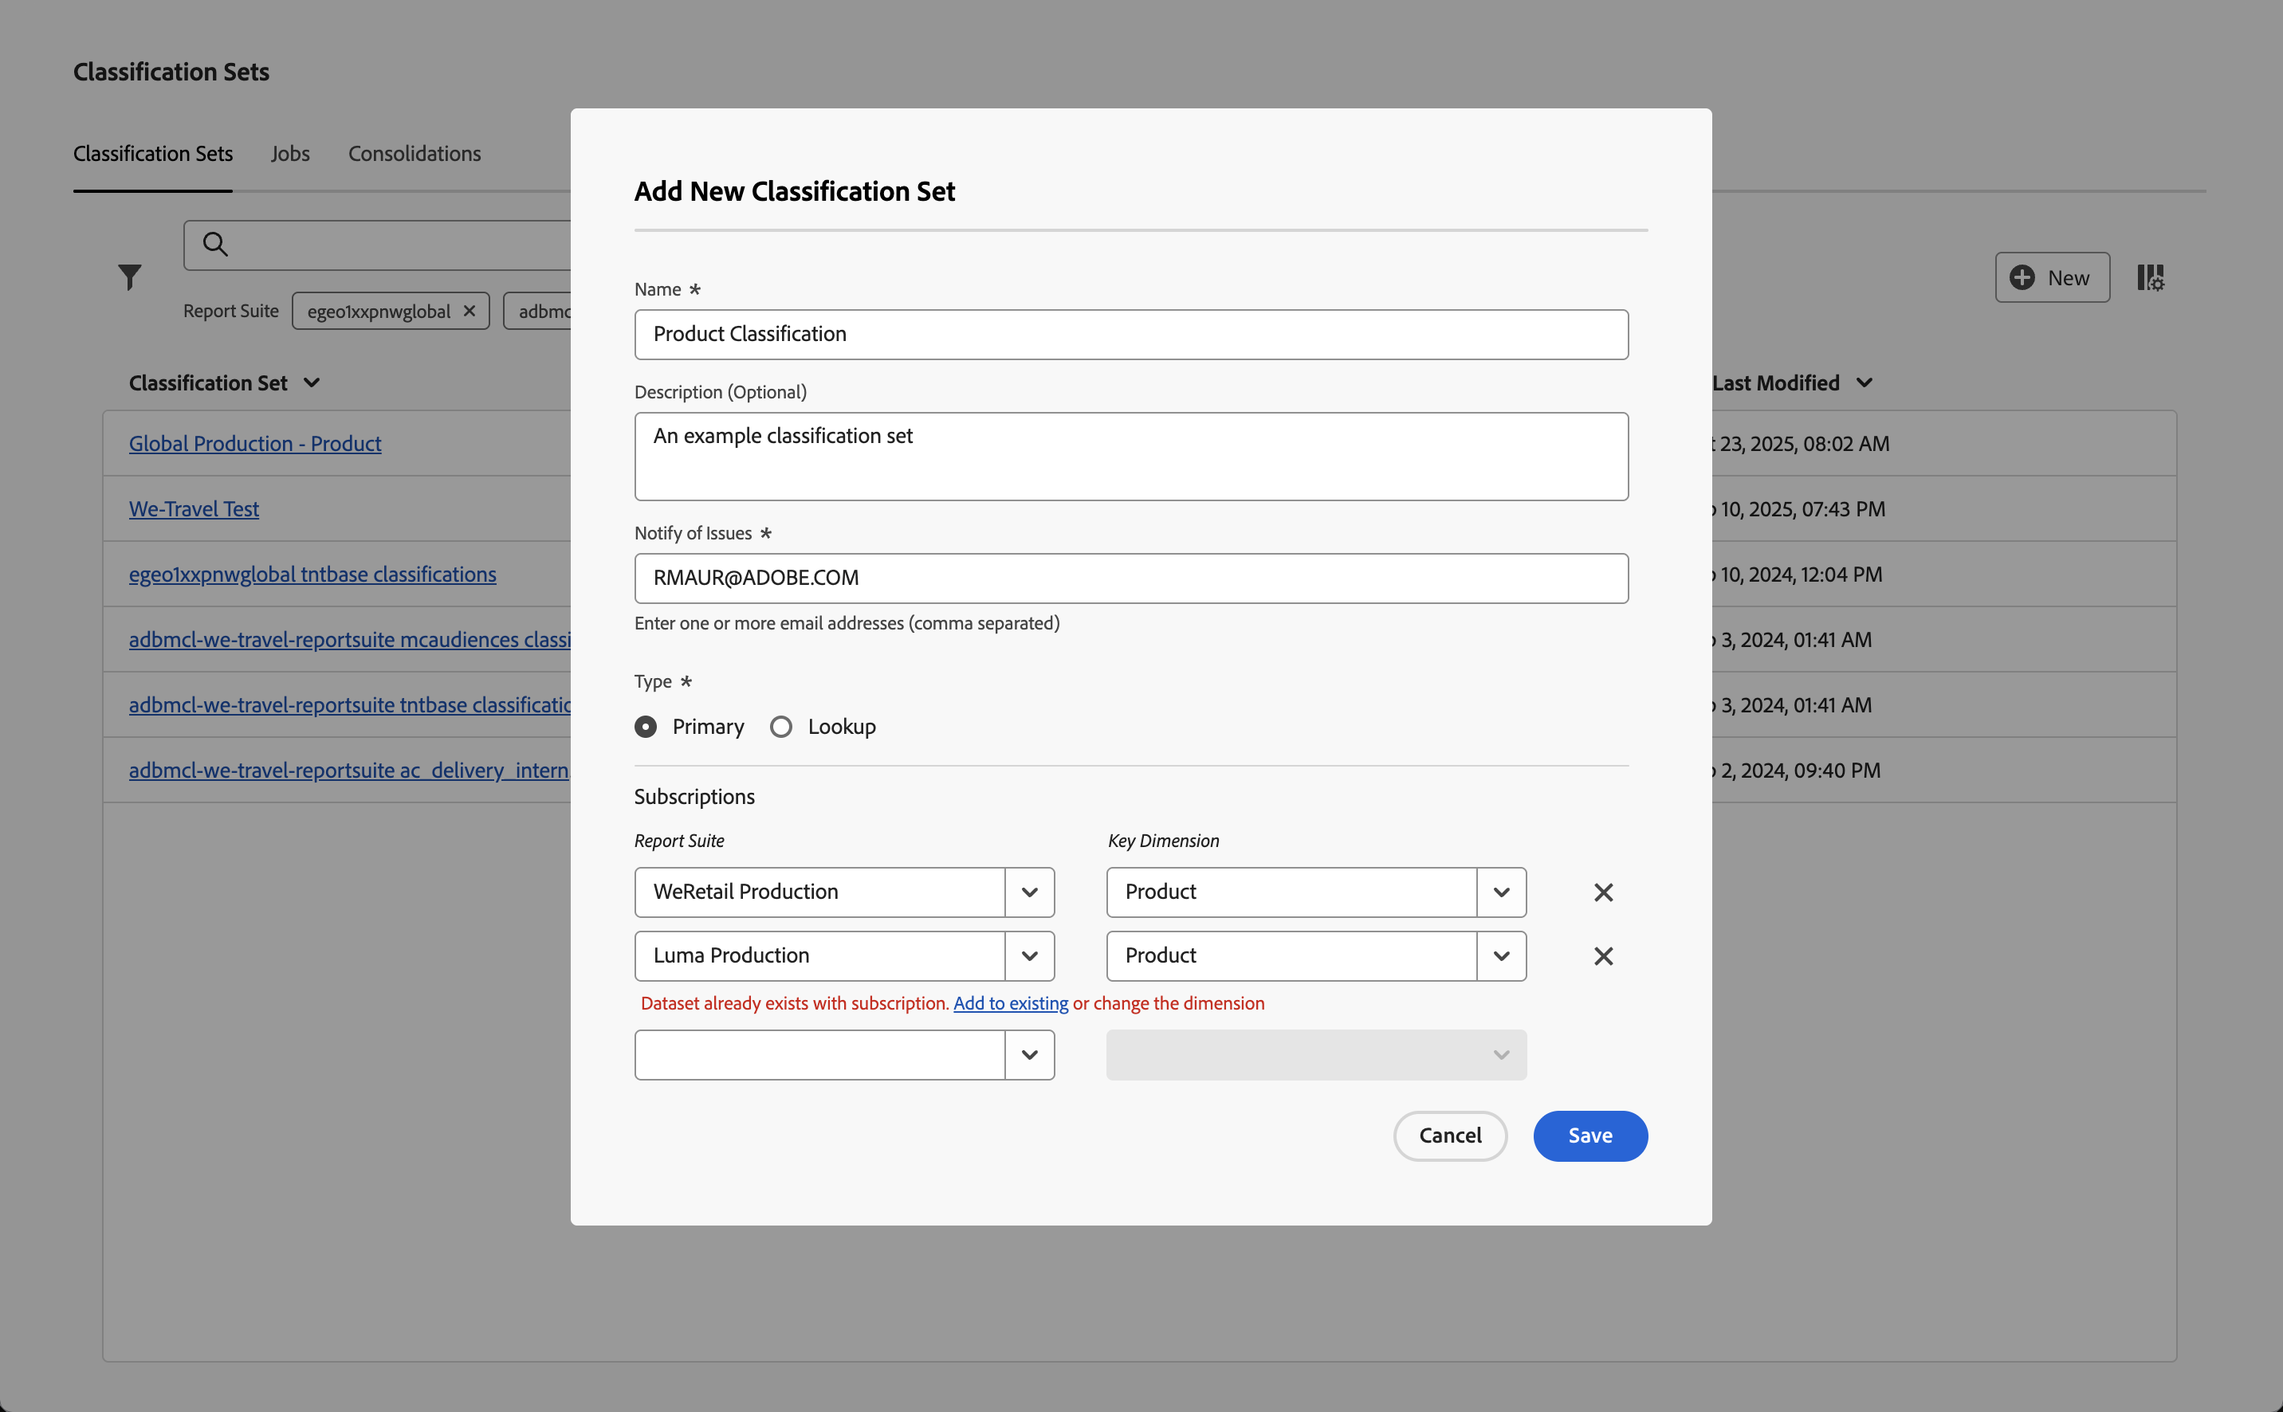
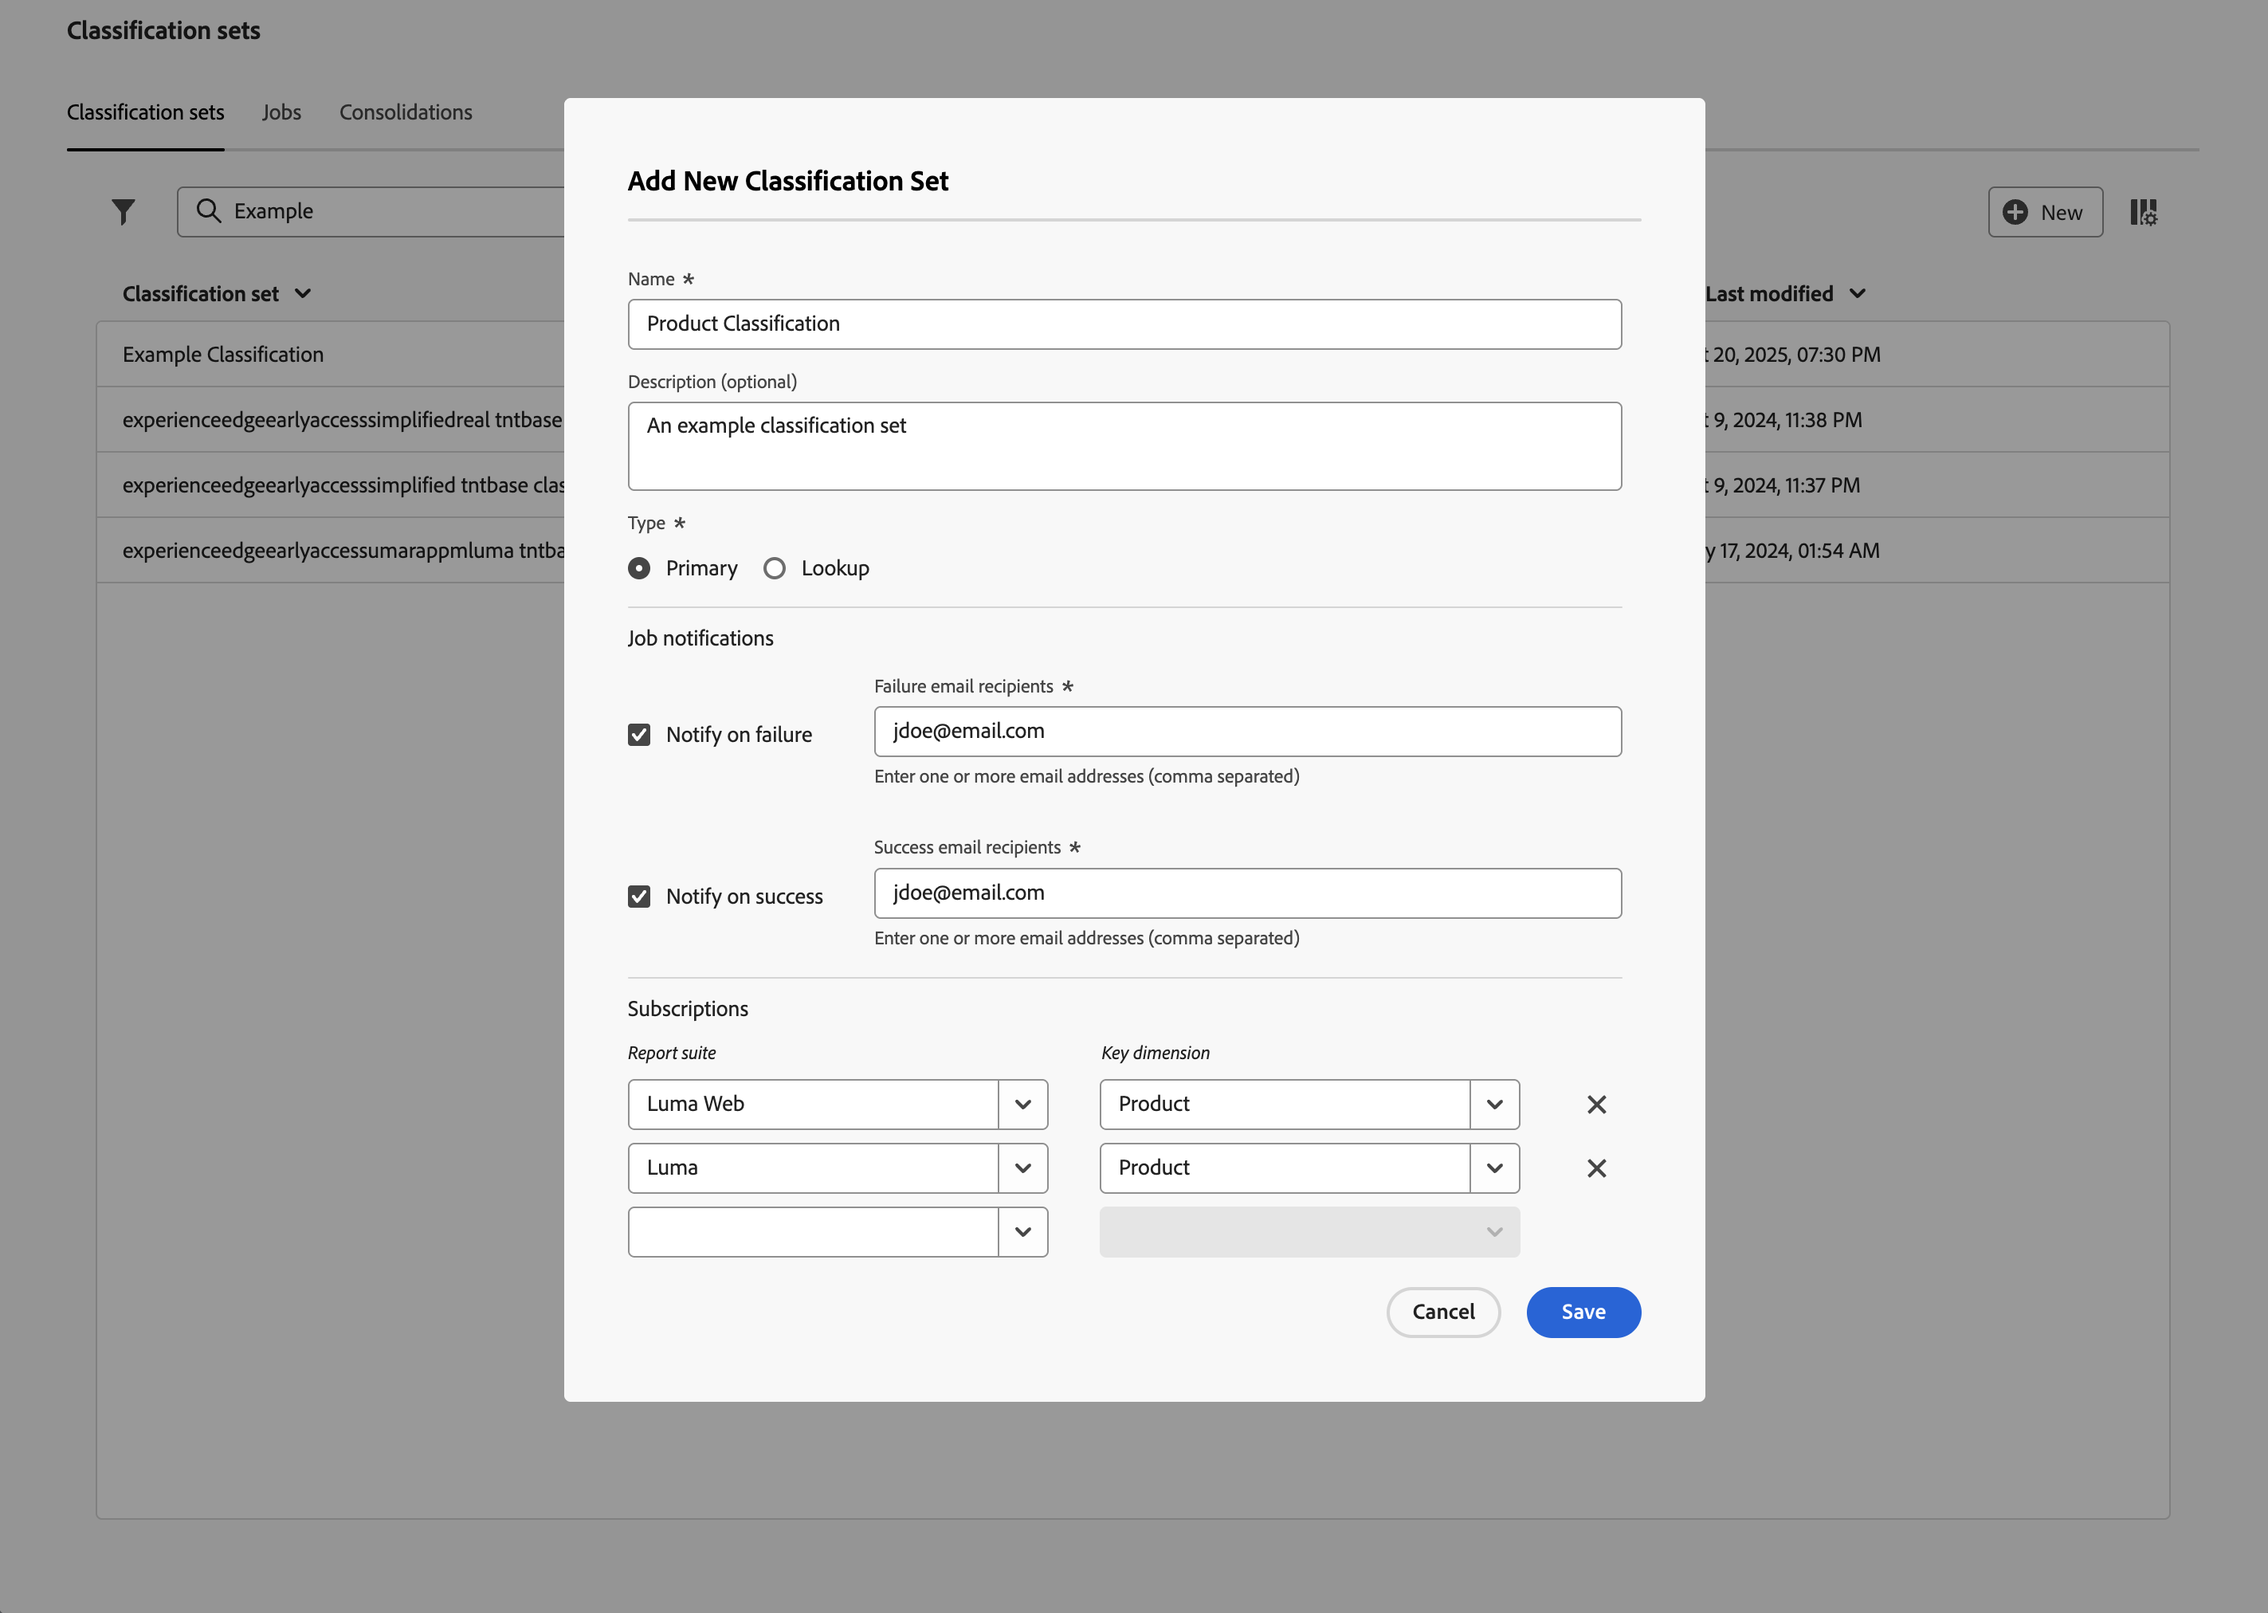
Some final changes, Checks with Claude. Updated screenshots.

diff --git a/help/components/classifications/sets/create-set.md b/help/components/classifications/sets/create-set.md
@@ -1,6 +1,6 @@
 ---
-title: Create Classification Sets
-description: Learn how to Available fields and descriptions when creating a classification set.
+title: Create And Edit Classification Sets
+description: Learn how to create and edit classification sets in Adobe Analytics, including primary and lookup classification types, subscriptions, and job notifications.
 exl-id: 6d692d90-8cc7-4306-a780-58d03db45be8
 feature: Classifications
 ---
@@ -13,7 +13,7 @@ You [create](#create-a-classification-set) and [edit](#edit-a-classification-set
 To create a classification set:
 
 1. Select **[!UICONTROL Components]** from the Adobe Analytics top menu bar, then select **[!UICONTROL Classification sets]**.
-1. In **[!UICONTROL Classification Sets]**, select the **[!UICONTROL Classification Sets]** tab.
+1. In **[!UICONTROL Classification sets]**, select the **[!UICONTROL Classification sets]** tab.
 1. Select ![AddCircle](/help/assets/icons/AddCircle.svg) **[!UICONTROL New]**.
 1. In the **[!UICONTROL Add New Classification Set]** dialog:
 
@@ -25,9 +25,13 @@ To create a classification set:
       * **[!UICONTROL Primary]**. A primary classification set applies to dimensions collected in Adobe Analytics. Primary classifications are a way to group (classify) granular dimension values into more meaningful levels of data. For example, you might want to group internal search keywords into internal search categories, to understand themes in your search data. Or classify product SKUs by color or category.
       * **[!UICONTROL Lookup]**. Commonly referred to as child or subclassifications, a lookup table is a classification of a primary classification. A lookup is metadata about a classification value, rather than the original dimension. For example, a *Product* dimension might have a primary classification of *Color code*. A lookup table of *Color name* could then be attached to the *Color code* to explain each color code.
 1. In the **[!UICONTROL Job notifications]** section, select who you want to notify on failure or success of the classification set jobs.
-   * To notify users on a failure, enable **[!UICONTROL Notify on failure]** and specify one or more comma separated email addresses in **[!UICONTROL Failure email recipients]**. 
-   * To notify users on success, enable **[!UICONTROL Notify on success]** and specify one or more comma separated email addresses in **[!UICONTROL Success email recipients]**. 
-1. In the **[!UICONTROL Subscriptions]** section, in case you have selected **[!UICONTROL Primary]**, enter one or more **[!UICONTROL Subscriptions]**.  You can define multiple **[!UICONTROL Report Suite]** and **[!UICONTROL Dimension]** combinations to a classification set. 
+   * To notify users on a failure:
+     1. Enable **[!UICONTROL Notify on failure]**.
+     1. Specify one or more comma separated email addresses in **[!UICONTROL Failure email recipients]**.
+   * To notify users on success: 
+     1. Enable **[!UICONTROL Notify on success]**. 
+     1. Specify one or more comma separated email addresses in **[!UICONTROL Success email recipients]**.
+1. In the **[!UICONTROL Subscriptions]** section, in case you have selected **[!UICONTROL Primary]**, enter one or more **[!UICONTROL Subscriptions]**.  You can define multiple **[!UICONTROL Report Suite]** and **[!UICONTROL Dimension]** combinations to a classification set.
          
    * Select ![CrossSize400](/help/assets/icons/CrossSize400.svg) to delete a **[!UICONTROL Report Suite]** and **[!UICONTROL Key Dimension]** combination.
 

diff --git a/help/components/classifications/sets/manage/settings.md b/help/components/classifications/sets/manage/settings.md
@@ -1,22 +1,19 @@
 ---
 title: Classification Set Settings
-description: Understand how to create or edit a classification set.
+description: Learn how to edit the name, description, tags, job notifications, and subscriptions of an existing classification set in Adobe Analytics.
 exl-id: abf00508-5dde-4669-bf94-5eb4754888cc
 feature: Classifications
 ---
 # Classification set settings
 
-You can edit the initial settings of a classification set. 
+You can edit the settings of a classification set, including name, description, who to notify, and the subscriptions.
 
 To edit the settings for a classification set:
 
-
 1. Select **[!UICONTROL Components]** from the Adobe Analytics top menu bar, then select **[!UICONTROL Classification sets]**.
-1. In **[!UICONTROL Classification Sets]**, select the **[!UICONTROL Classification Sets]** tab.
-1. In the **[!UICONTROL Classifications Sets]** manager, select the classification set for which you want to edit the schema.
-1. In the **[!UICONTROL Classification Set: _classification set_]** dialog, select the **[!UICONTROL Settings]** tab. 
-
-1. In the **[!UICONTROL Classification Set: _classification set_]** dialog, where appropriate:
+1. In **[!UICONTROL Classification Sets]**, select the **[!UICONTROL Classification sets]** tab.
+1. In the **[!UICONTROL Classification sets]** manager, select the classification set for which you want to edit the schema.
+1. In the **[!UICONTROL Classification Set: _classification set_]** dialog, select the **[!UICONTROL Settings]** tab to edit settings:
 
    ![Classification sets - settings](assets/classification-sets-settings.png)
 
@@ -24,9 +21,13 @@ To edit the settings for a classification set:
    1. Edit a **[!UICONTROL Description (optional)]**.
    1. Add one or more **[!UICONTROL Tags (optional)]** to the classification set. Select an existing tag from the **[!UICONTROL Tags]** drop-down menu, or enter a new tag. Use ![CrossSize100](/help/assets/icons/CrossSize100.svg) to remove a tag.
    1. In the **[!UICONTROL Job notifications]** section, select who you want to notify on failure or success of the classification set jobs.
-      * To notify users on a failure, enable **[!UICONTROL Notify on failure]** and specify one or more comma separated email addresses in **[!UICONTROL Failure email recipients]**. 
-      * To notify users on success, enable **[!UICONTROL Notify on success]** and specify one or more comma separated email addresses in **[!UICONTROL Success email recipients]**. 
-   1. Edit the **[!UICONTROL Subscriptions]**.  
+      * To notify users on a failure: 
+        1. enable **[!UICONTROL Notify on failure]**.
+        1. Specify one or more comma separated email addresses in **[!UICONTROL Failure email recipients]**.
+      * To notify users on success: 
+        1. Enable **[!UICONTROL Notify on success]**. 
+        1. Specify one or more comma separated email addresses in **[!UICONTROL Success email recipients]**.
+   1. Edit the **[!UICONTROL Subscriptions]**.
       * You can define multiple **[!UICONTROL Report Suite]** and **[!UICONTROL Dimension]** combinations to a classification set. 
       * Select ![CrossSize400](/help/assets/icons/CrossSize400.svg) to delete a **[!UICONTROL Report Suite]** and **[!UICONTROL Key Dimension]** combination.
 
